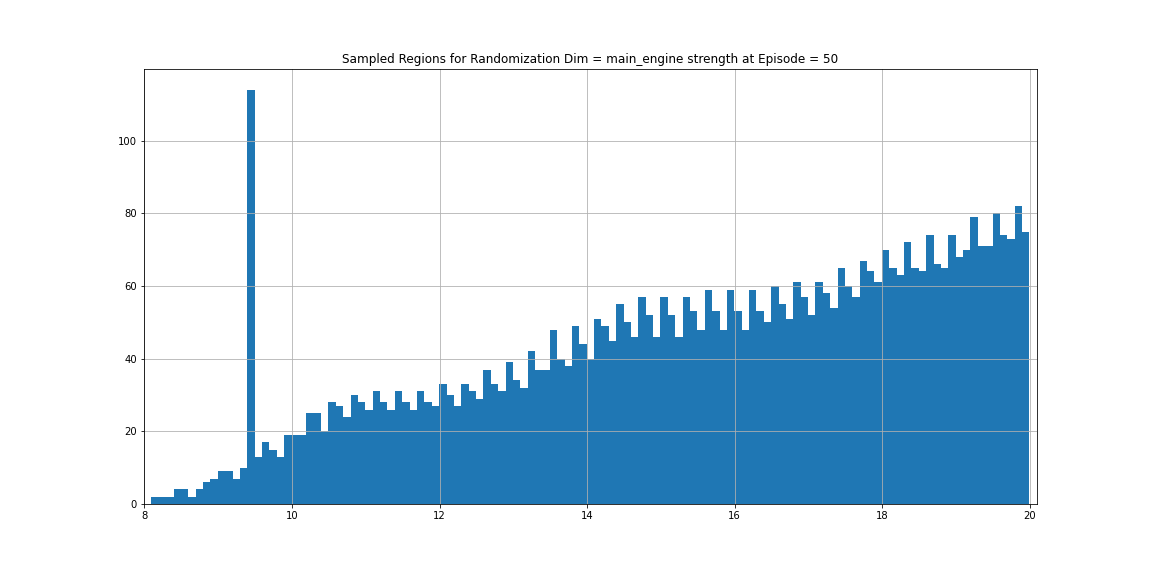
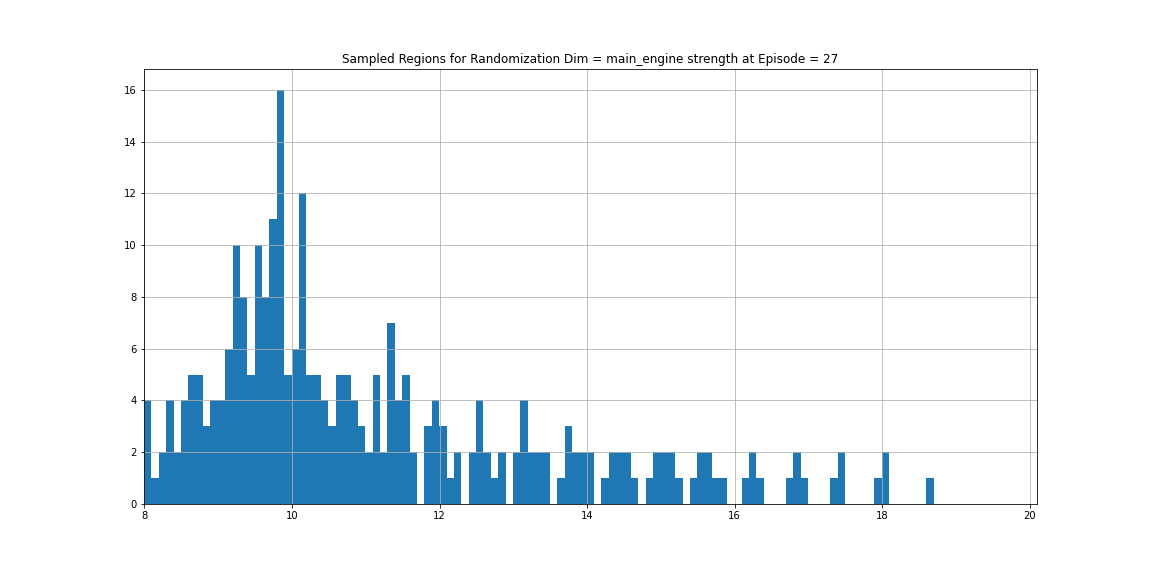
update svpg codes again

Changed region(s): [[0.0938, 0.1562, 0.9062, 0.875]]

diff --git a/code/algorithms/svpg/ddpg_dr.py b/code/algorithms/svpg/ddpg_dr.py
@@ -2,8 +2,6 @@
 import numpy as np
 import matplotlib.pyplot as plt
 import tqdm
-from scipy.spatial.distance import squareform, pdist
-# import os
 import gym
 #------only for spyder IDE
 for env in gym.envs.registration.registry.env_specs.copy():
@@ -146,7 +144,7 @@ class Critic(nn.Module):
         return x 
 
 class DDPG(object):
-    def __init__(self, dr, h1, h2, T_svpg, H_svpg, gamma, epochs, batch_size, lr, a_max=0.005, tau=0.005):
+    def __init__(self, dr, h1, h2, T_svpg, H_svpg, gamma, epochs, batch_size, lr, xp_type, T_init, a_max=0.005, tau=0.005):
         
         self.T_svpg = T_svpg
         self.dr = dr
@@ -157,6 +155,9 @@ class DDPG(object):
         self.epochs = epochs
         self.batch_size = batch_size
         self.tau=tau
+        self.xp_type=xp_type
+        self.T_init = T_init
+        self.a_max = a_max
         self.RB=ReplayBuffer()
 
         self.actor = Actor(in_size=dr, h1=h1, h2=h2, out_size=dr, max_action=a_max).to(device)
@@ -184,12 +185,16 @@ class DDPG(object):
         for t in range(self.T_svpg):
             self.simulation_instance[t] = current_sim_params
 
-            action = self.select_action(current_sim_params)  
+            action = self.select_action(current_sim_params) if len(self.RB.storage) > self.T_init else self.a_max * np.random.uniform(-1, 1, (self.dr,))
             
             #step
             next_params = current_sim_params + action
-            reward = 1. if next_params <= 0.6 and next_params >= 0.4 else -10. #1./(np.abs(0.5-next_params)+1e-8)
+            if xp_type=="peak":
+                reward = 1. if next_params <= 0.6 and next_params >= 0.4 else -10. #1./(np.abs(0.5-next_params)+1e-8)
+            elif xp_type=="valley":
+                reward = -10. if next_params <= 0.6 and next_params >= 0.4 else 1.
             done=True if next_params < 0 or next_params > 1 else False
+            # next_params = np.clip(next_params,0,1)
             done_bool = 0 if self.timesteps + 1 == self.H_svpg else float(done)
             
             if add_to_buffer:
@@ -209,57 +214,62 @@ class DDPG(object):
         return np.array(self.simulation_instance), self.last_states
 
     def train(self):
-        for _ in range(self.epochs):
-            # Sample replay buffer 
-            x, y, u, r, d = self.RB.sample(self.batch_size)
-            state = torch.FloatTensor(x).to(device)
-            action = torch.FloatTensor(u).to(device)
-            next_state = torch.FloatTensor(y).to(device)
-            done = torch.FloatTensor(1 - d).to(device)
-            reward = torch.FloatTensor(r).to(device)
-
-            # Compute the target Q value
-            target_Q = self.critic_target(next_state, self.actor_target(next_state))
-            target_Q = reward + (done * self.gamma * target_Q).detach()
-
-            # Get current Q estimate
-            current_Q = self.critic(state, action)
-
-            # Compute critic loss
-            critic_loss = F.mse_loss(current_Q, target_Q)
-
-            # Optimize the critic
-            self.critic_optimizer.zero_grad()
-            critic_loss.backward()
-            self.critic_optimizer.step()
-
-            # Compute actor loss
-            actor_loss = -self.critic(state, self.actor(state)).mean()
-            
-            # Optimize the actor 
-            self.actor_optimizer.zero_grad()
-            actor_loss.backward()
-            self.actor_optimizer.step()
-
-            # Update the frozen target models
-            for param, target_param in zip(self.critic.parameters(), self.critic_target.parameters()):
-                target_param.data.copy_(self.tau * param.data + (1 - self.tau) * target_param.data)
-
-            for param, target_param in zip(self.actor.parameters(), self.actor_target.parameters()):
-                target_param.data.copy_(self.tau * param.data + (1 - self.tau) * target_param.data)
+        if len(self.RB.storage) > self.T_init: 
+            for _ in range(self.epochs):
+                # Sample replay buffer 
+                x, y, u, r, d = self.RB.sample(self.batch_size)
+                state = torch.FloatTensor(x).to(device)
+                action = torch.FloatTensor(u).to(device)
+                next_state = torch.FloatTensor(y).to(device)
+                done = torch.FloatTensor(1 - d).to(device)
+                reward = torch.FloatTensor(r).to(device)
+    
+                # Compute the target Q value
+                target_Q = self.critic_target(next_state, self.actor_target(next_state))
+                target_Q = reward + (done * self.gamma * target_Q).detach()
+    
+                # Get current Q estimate
+                current_Q = self.critic(state, action)
+    
+                # Compute critic loss
+                critic_loss = F.mse_loss(current_Q, target_Q)
+    
+                # Optimize the critic
+                self.critic_optimizer.zero_grad()
+                critic_loss.backward()
+                self.critic_optimizer.step()
+    
+                # Compute actor loss
+                actor_loss = -self.critic(state, self.actor(state)).mean()
+                
+                # Optimize the actor 
+                self.actor_optimizer.zero_grad()
+                actor_loss.backward()
+                self.actor_optimizer.step()
+    
+                # Update the frozen target models
+                for param, target_param in zip(self.critic.parameters(), self.critic_target.parameters()):
+                    target_param.data.copy_(self.tau * param.data + (1 - self.tau) * target_param.data)
+    
+                for param, target_param in zip(self.actor.parameters(), self.actor_target.parameters()):
+                    target_param.data.copy_(self.tau * param.data + (1 - self.tau) * target_param.data)
 
 #%% Implementation (ADR algorithm)
 if __name__ == '__main__':
     
     lr_svpg=0.003 #0.0003
     gamma_svpg=0.99
-    h1=100 #100
+    h1=100 #100 #hidden sizes
     h2=64
-    T_svpg=10 #50
-    delta_max = 0.005 #0.05
-    H_svpg = 25 #50
-    batch_size=100
+    T_svpg=10 #50 #ddpg rollout length
+    delta_max = 0.005 #0.05 #maximum allowable change to svpg states (i.e. upper bound on the svpg action)
+    H_svpg = 25 #50 #ddpg rollout horizon
+    batch_size=100 #for batch used for ddpg training 
     epochs=50
+    xp_types=["peak","valley"] #experiment types
+    xp_type=xp_types[0]
+    rewards_scale=1.
+    T_init = 100 #initial steps to take before svpg update or step
     
     env_names=['halfcheetah_custom_norm-v1','halfcheetah_custom_rand-v1','lunarlander_custom_820_rand-v0','cartpole_custom-v1']
     env_name=env_names[-2]
@@ -269,14 +279,14 @@ if __name__ == '__main__':
     da=env.action_space.shape[0] #action dims
     dr=env.unwrapped.randomization_space.shape[0]
         
-    svpg = DDPG(dr, h1, h2, T_svpg, H_svpg, gamma_svpg, epochs, batch_size, lr_svpg, a_max=delta_max)
+    svpg = DDPG(dr, h1, h2, T_svpg, H_svpg, gamma_svpg, epochs, batch_size, lr_svpg, xp_type, T_init, a_max=delta_max)
     
     set_seed(seed)
     
-    T_eps=1000
+    T_eps=1000 #number of training episodes
     plot_tr_rewards_mean=[]
     sampled_regions = [[] for _ in range(dr)]
-    rand_step=0.1
+    rand_step=0.1 #for discretizing the sampled regions plot
     common_name="_svpg_dr"
     t_eps=0
     
@@ -289,7 +299,12 @@ if __name__ == '__main__':
             #calculate deterministic reward
             simulation_instances_mask = np.concatenate([simulation_instances[1:,0],next_instances])
             rewards = np.ones_like(simulation_instances_mask,dtype=np.float32)
-            rewards[((simulation_instances_mask<=0.40).astype(int) + (simulation_instances_mask>=0.60).astype(int)).astype(bool)]=-10.
+            if xp_type =="peak":
+                rewards[((simulation_instances_mask<=0.40).astype(int) + (simulation_instances_mask>=0.60).astype(int)).astype(bool)]=-10.
+            elif xp_type=="valley":
+                rewards[((simulation_instances_mask>=0.40).astype(int) * (simulation_instances_mask<=0.60).astype(int)).astype(bool)]=-10.
+                
+            rewards = rewards * rewards_scale
                 
             mean_rewards=rewards.sum(-1).mean()
             plot_tr_rewards_mean.append(mean_rewards)

diff --git a/code/algorithms/svpg/svpg_dr.py b/code/algorithms/svpg/svpg_dr.py
@@ -3,7 +3,6 @@ import numpy as np
 import matplotlib.pyplot as plt
 import tqdm
 from scipy.spatial.distance import squareform, pdist
-# import os
 import gym
 #------only for spyder IDE
 for env in gym.envs.registration.registry.env_specs.copy():
@@ -224,6 +223,7 @@ class SVPG:
         self.values = [torch.zeros((self.T_svpg, 1)).float().to(device) for _ in range(self.n_particles)]
         # Store the last states for each particle (calculating rewards)
         self.masks = np.ones((self.n_particles, self.T_svpg))
+        # done=[False]*self.n_particles
 
         for i in range(self.n_particles):
             self.particles[i].saved_log_probs = [] #reset
@@ -237,12 +237,14 @@ class SVPG:
                 
                 clipped_action = self.delta_max * np.array(np.clip(action, -1, 1)) 
                 next_params = np.clip(current_sim_params + clipped_action, 0, 1)
+                # next_params = current_sim_params + clipped_action
+                # done[i]=True if next_params < 0 or next_params > 1 else False 
                 
-                if np.array_equal(next_params, current_sim_params) or self.timesteps[i] + 1 == self.H_svpg:
+                if np.array_equal(next_params, current_sim_params) or self.timesteps[i] + 1 == self.H_svpg: #or done[i]:
                     next_params = np.random.uniform(0, 1, (self.dr,))
                     
                     self.masks[i][t] = 0 # done = True
-                    self.timesteps[i] = -1 #0
+                    self.timesteps[i] = -1
 
                 current_sim_params = next_params
                 self.timesteps[i] += 1
@@ -302,10 +304,7 @@ class SVPG:
         policy_grads = 1.0 / self.temperature * torch.cat(policy_grads)
         grad_logp = torch.mm(k, policy_grads)
 
-        # grad_theta = (grad_logp + grad_k) / self.n_particles #HINT: original implementation
-        # grad_theta = (grad_logp - grad_k) / self.n_particles
-        grad_theta = - (grad_logp + grad_k) / self.n_particles #HINT: from paper (gradient ascent)
-        # grad_theta = - (grad_logp - grad_k) / self.n_particles
+        grad_theta = - (grad_logp + grad_k) / self.n_particles
 
         # # update param gradients
         for i in range(self.n_particles):
@@ -328,9 +327,12 @@ if __name__ == '__main__':
     h_svpg=64 #100
     svpg_modes=[1,2,3] #how to calculate kernel gradient #1: original implementation; 2 & 3: other variants
     svpg_mode=svpg_modes[1]
-    T_svpg=10 #50
-    delta_max = 0.005 #0.05
-    H_svpg = 25 #50
+    xp_types=["peak","valley"] #experiment types
+    xp_type=xp_types[0]
+    T_svpg=10 #50 #svpg rollout length
+    delta_max = 0.005 #0.05 #maximum allowable change to svpg states (i.e. upper bound on the svpg action)
+    H_svpg = 25 #50 #svpg horizon (how often the particles are reset)
+    rewards_scale=1.
     
     env_names=['halfcheetah_custom_norm-v1','halfcheetah_custom_rand-v1','lunarlander_custom_820_rand-v0','cartpole_custom-v1']
     env_name=env_names[-2]
@@ -348,7 +350,7 @@ if __name__ == '__main__':
     T_eps=1000
     plot_tr_rewards_mean=[]
     sampled_regions = [[] for _ in range(dr)]
-    rand_step=0.1
+    rand_step=0.1 #for discretizing the sampled regions plot
     common_name="_svpg_dr"
     t_eps=0
     
@@ -360,9 +362,14 @@ if __name__ == '__main__':
             
             #calculate deterministic reward
             simulation_instances_mask = np.concatenate([simulation_instances[:,1:,0],next_instances],1)
-            rewards = np.ones_like(simulation_instances_mask,dtype=np.float32)
-            rewards[((simulation_instances_mask<=0.40).astype(int) + (simulation_instances_mask>=0.60).astype(int)).astype(bool)]=-10.
-                
+            rewards = np.ones_like(simulation_instances_mask,dtype=np.float32) 
+            if xp_type =="peak":
+                rewards[((simulation_instances_mask<=0.40).astype(int) + (simulation_instances_mask>=0.60).astype(int)).astype(bool)]=-10.
+            elif xp_type=="valley":
+                rewards[((simulation_instances_mask>=0.40).astype(int) * (simulation_instances_mask<=0.60).astype(int)).astype(bool)]=-10.
+            
+            rewards = rewards * rewards_scale
+            
             mean_rewards=rewards.sum(-1).mean()
             plot_tr_rewards_mean.append(mean_rewards)
             
